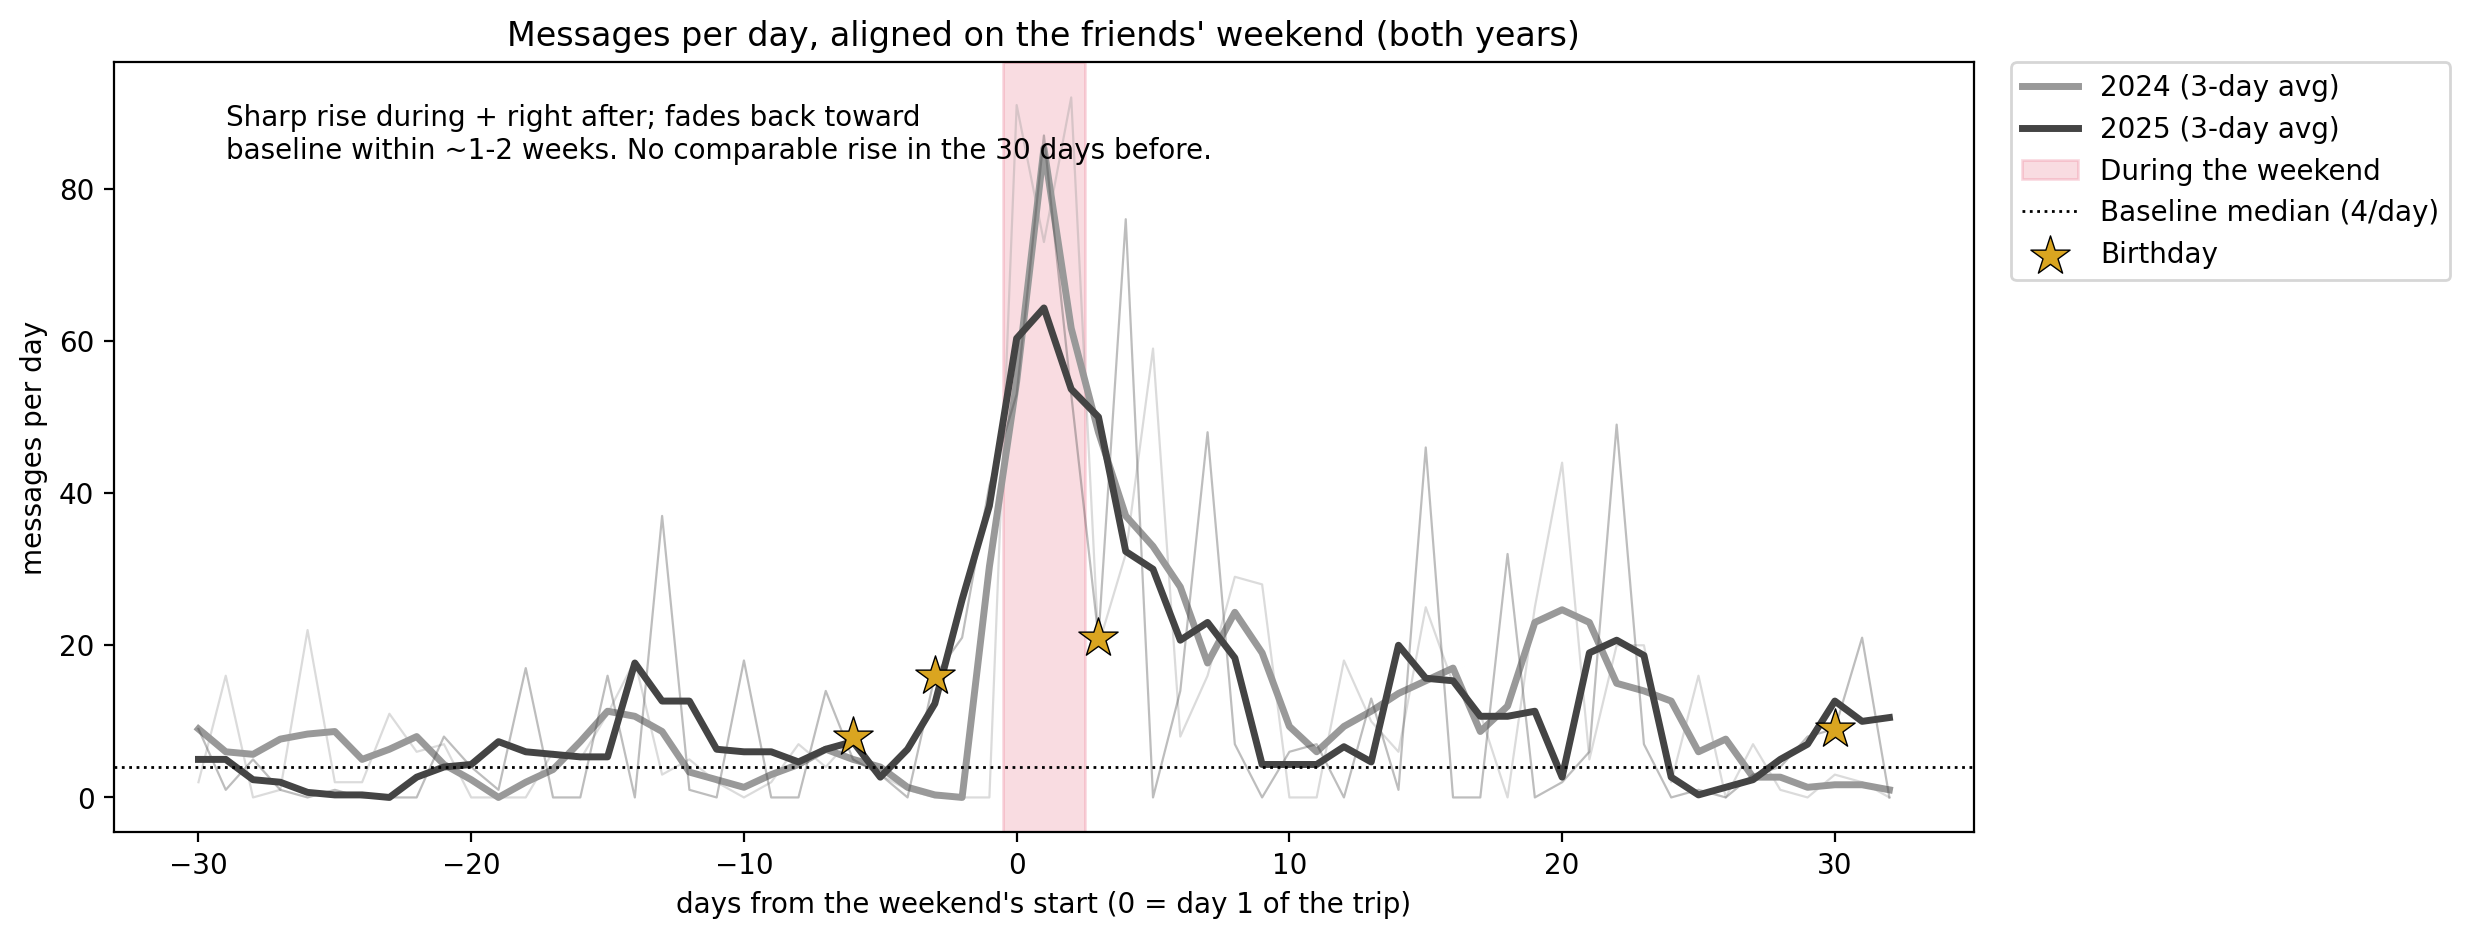
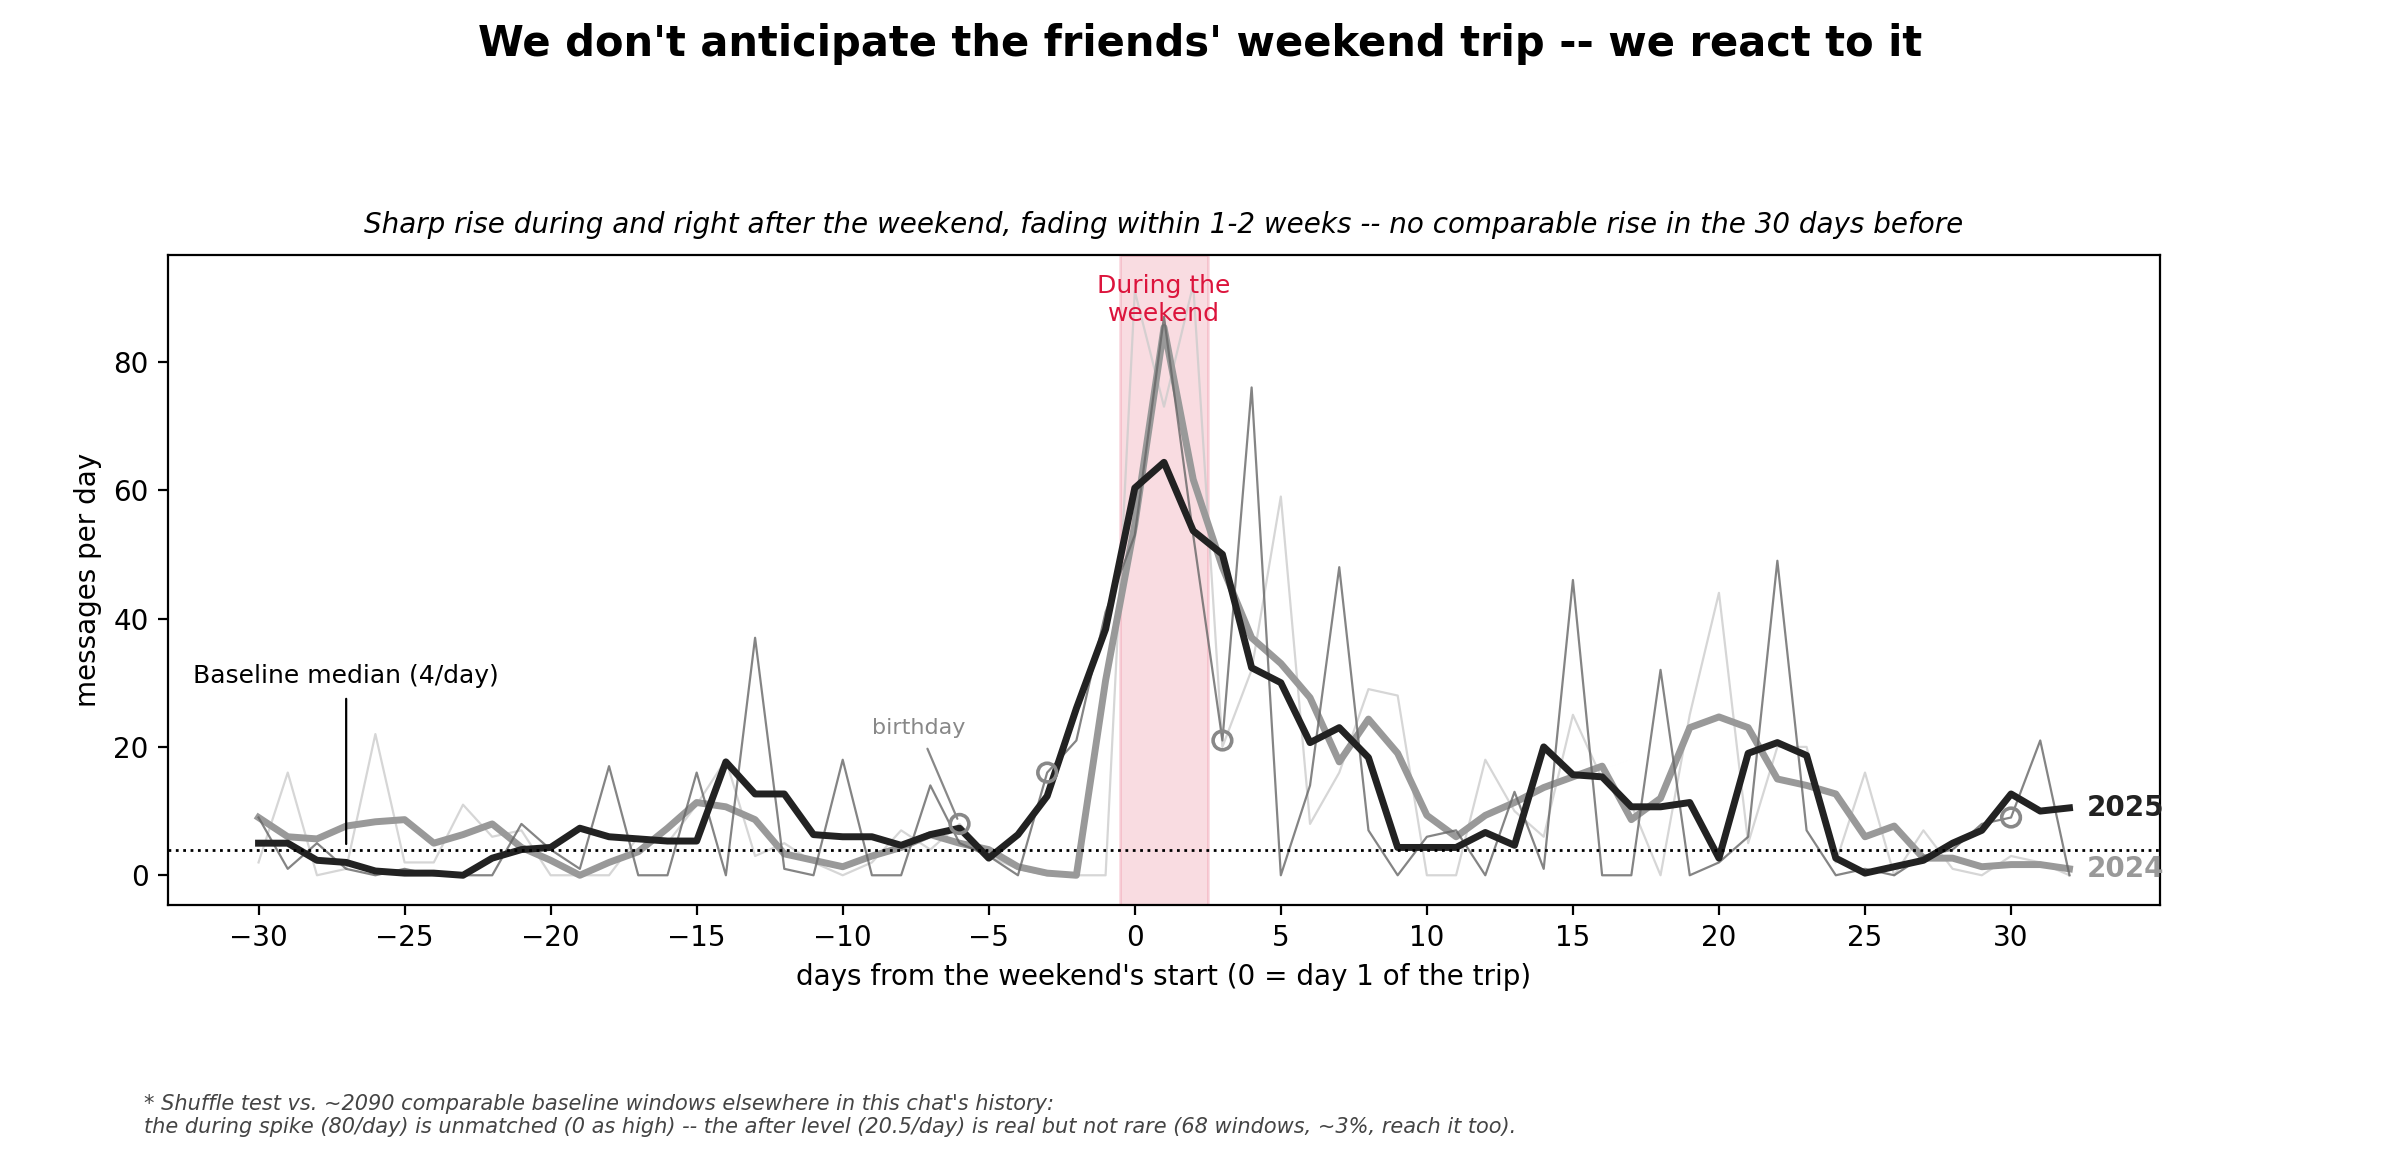
update graph time

diff --git a/notebooks/analysis/findings-friends-weekend.md b/notebooks/analysis/findings-friends-weekend.md
@@ -1,4 +1,4 @@
-# Does the annual friends' weekend show up in the group chat?
+# We don't anticipate the friends' weekend trip — we react to it
 
 *Data: our WhatsApp export, Aug 2020 – Aug 2026 (9 people, ~22.5k messages). Full
 pipeline and charts: [`05-friends-weekend-activity.ipynb`](05-friends-weekend-activity.ipynb).*
@@ -94,6 +94,14 @@ story rescues the "before" half of the original idea.
   during-weekend spike is the single most extreme 3-day stretch in this
   chat's entire history, which is stronger evidence than I expected going
   in.
+  I ran the same check on the **after**-window and got a genuinely
+  different answer: of 2087 comparable 7-day baseline windows, **68 (about
+  3%) reach or beat the real after-window median of 20.5 messages/day**.
+  So the after-bump, while real, isn't rare — something like it happens
+  roughly 1 in 30 weeks in this chat regardless of the trip. The during
+  and after effects deserve different amounts of confidence: during is
+  essentially unmatched anywhere else in the chat's history, after is a
+  real but fairly ordinary busy week.
 - **Is there a more likely explanation?** Two live candidates, not
   investigated further this round: 2024's after-window includes a member's
   accident (a fall, facial scar) — plausibly inflating that year's after-bump
@@ -110,16 +118,25 @@ story rescues the "before" half of the original idea.
 
 ## Verdict
 
-**Partially supported.** The during-weekend spike is real and verified as
-genuinely unusual, not ordinary chat noise — it's the most extreme 3-day
-stretch in six years of this chat. The after-effect is real too, but
-short-lived, mostly faded within 1–2 weeks rather than lasting a month. The
-**before** half of my original idea — a month of building excitement — isn't
-supported at either window width I tried; if there's any anticipation
-effect at all, it's a ramp in the final few days before leaving, not a
-sustained one. So the honest version of the finding is narrower than what I
-set out to test: **the group shows up hard for the trip and its immediate
-afterglow, but doesn't spend weeks visibly anticipating it in the chat.**
+**Partially supported, and the two effects deserve different confidence.**
+The during-weekend spike is real and verified as genuinely unusual, not
+ordinary chat noise — it's the single most extreme 3-day stretch in six
+years of this chat, with zero comparable baseline windows matching it. The
+after-effect is real too, but weaker evidence: it fades within 1–2 weeks,
+and unlike during, a comparably busy week happens elsewhere in this chat
+about 3% of the time anyway — so "elevated after the trip" is true but not
+nearly as rare a signal as "elevated during it." The **before** half of my
+original idea — a month of building excitement — isn't supported at either
+window width I tried; if there's any anticipation effect at all, it's a
+ramp in the final few days before leaving, not a sustained one. So the
+honest version of the finding is narrower than what I set out to test:
+**the group doesn't anticipate the trip for weeks — it reacts to it, hard,
+in the moment, with a real but more ordinary afterglow.**
+
+*(One more thing worth naming: the "80 messages/day" during-figure is
+pooled across both years, but the two years weren't equally extreme on
+their own — 2024's during-median was 91, 2025's was 53. Both are well
+above baseline, but 2024 was the bigger outlier of the two.)*
 
 ## What this check did *not* do
 

diff --git a/analysis-log.md b/analysis-log.md
@@ -2051,3 +2051,41 @@ against.
   (null, multiple comparisons, exhaustive shuffle test, confounders,
   held-out) → the honest partial verdict (during/after real, before not
   supported) → explicit list of what this check did not do.
+
+### Presentation polish (v3), after the write-up was drafted
+
+Requested separately, same pattern as Analysis 4's slide-chart polish passes —
+refining the already-verified finding's *presentation*, not re-opening the
+analysis.
+
+- **Title sharpened to the actual claim:** "We don't anticipate the friends'
+  weekend trip — we react to it," headline/subtitle split (same pattern as
+  the election-length slide charts) — bold challenging headline via
+  `fig.suptitle`, precise measured claim demoted to an italic subtitle.
+- **X-axis:** explicit 5-day tick spacing.
+- **In-chart annotation moved to the subtitle**, freeing the plot area.
+- **Legend box removed, replaced with direct in-plot labels** — "2024"/"2025"
+  at each smoothed line's end, "During the weekend" above the shaded span,
+  a leader-line label for the baseline. No legend key to look up.
+- **Year colour families clarified:** 2024 = light grey (raw `#cccccc` →
+  smoothed `#999999`), 2025 = near-black (raw `#666666` → smoothed
+  `#222222`) — raw and smoothed share a hue per year so the faint
+  background line is now identifiable.
+- **Birthday markers changed** from gold stars (too attention-grabbing) to
+  small muted open circles.
+- **New shuffle test added for the after-window** (7-day, matching the
+  real after-median of 20.5/day), run the same exhaustive way as the
+  during-window test: **68 of 2087 comparable baseline windows (~3%) reach
+  or beat it** — genuinely different from during's 0/2091. Added to the
+  chart footnote and the write-up: during is essentially unmatched
+  anywhere else in the chat's history, after is real but not statistically
+  rare.
+- **Clarified on request:** the 80/day during-figure is the *pooled*
+  median across both years' during-days (6 total). Per year they differ
+  more than the pooled number suggests — 2024's during-median is 91,
+  2025's is 53. Noted in the write-up as a caveat, not hidden behind the
+  single pooled number.
+- **Layout fix:** switched from `tight_layout(rect=...)` to explicit
+  `fig.subplots_adjust(...)` — the rect version kept re-inserting a large
+  blank gap between the subtitle and the plot that tight_layout's own
+  heuristics wouldn't remove.
